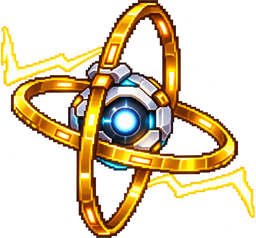
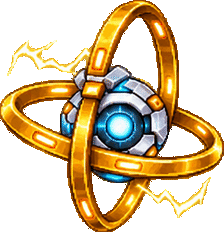
PULSE helper: the owner's animated picture (16 frames, rings spinning)
Claude-Session: https://claude.ai/code/session_014wFmWGCviaZX45qxFt5PbG

diff --git a/js/sys/beastkeeper.js b/js/sys/beastkeeper.js
@@ -193,7 +193,7 @@ const HLP_IMG = {};
 for (const k of Object.keys(HELPERS)){ const im = new Image(); im.onload = () => { HLP_IMG[k] = im; delete BOT_PIC[k]; }; im.onerror = () => {}; im.src = `assets/helpers/${k}.png?v=${typeof GAMEV !== 'undefined' && GAMEV ? GAMEV : 274}`; }
 const HLP_SHINE = document.createElement('canvas');
 /* (v274) a helper whose picture the owner sent as an animation plays it: a strip of frames, assets/helpers/<k>_anim.png */
-const HLP_ANIM = {midas:{n:9, dt:.14}}, HLP_FR = {};
+const HLP_ANIM = {midas:{n:9, dt:.14}, pulse:{n:16, dt:.1}}, HLP_FR = {};
 for (const k in HLP_ANIM){ const im = new Image(); im.onload = () => { const n = HLP_ANIM[k].n, w = Math.floor(im.width / n), out = [];
     for (let i = 0; i < n; i++){ const c = document.createElement('canvas'); c.width = w; c.height = im.height; c.getContext('2d').drawImage(im, i * w, 0, w, im.height, 0, 0, w, im.height); out.push(c); } HLP_FR[k] = out; };
   im.onerror = () => {}; im.src = `assets/helpers/${k}_anim.png?v=${typeof GAMEV !== 'undefined' && GAMEV ? GAMEV : 274}`; }

diff --git a/index.html b/index.html
@@ -289,7 +289,7 @@
 <script src="js/sys/buyqty.js?v=184"></script>
 <script src="js/sys/statup.js?v=111"></script>
 <script src="js/sys/herbfx.js?v=111"></script>
-<script src="js/sys/beastkeeper.js?v=279"></script>
+<script src="js/sys/beastkeeper.js?v=280"></script>
 <script src="js/ui/menuicons.js?v=111"></script>
 <script src="js/sys/fame.js?v=111"></script>
 <script src="js/sys/cooking.js?v=273"></script>

diff --git a/docs/UPDATES.md b/docs/UPDATES.md
@@ -68,7 +68,7 @@
   - แมงมุมถ้ำตาบอด → ต่อถ้ำตาซีด · แมงมุมหุบเขา → ต่อหัวเสือหุบเขา · แมงมุมผลึกน้ำแข็ง → แตนผลึกน้ำแข็ง · แมงมุมประจำภูมิภาค 7 แบบ → ต่อ/แตนของภูมิภาคนั้น
   - บอส: พญาแมงมุมถ้ำมืด → นางพญาต่อถ้ำมืด (ท่าไม้ตาย «พุ่งเหล็กในมรณะ») · ราชินีแมงมุมน้ำแข็ง → ราชินีผึ้งน้ำแข็ง («ฝูงผึ้งน้ำแข็ง») · เจ้าผึ้งฟยอร์ด · เจ้าต่อมณี · ขนาดบอสพอดีตัว
   - สกิลใยแมงมุมของพวกนี้เปลี่ยนเป็นโฉบลง/พ่นพิษ/ลมกรดจากปีก · เรื่องเล่า บทพูดบอส เควสต์ ดันเจี้ยน เปลี่ยนตามหมด · ไอดีมอนเหมือนเดิม เซฟ เควสต์ การ์ด ของดรอปใช้ได้ต่อ
-- **หุ่น MIDAS ใช้ภาพใหม่ของเจ้าของเกม** เป็นภาพเคลื่อนไหว 9 เฟรม (ประกายหมุนรอบตัว) · ภาพนิ่งตอนตั้งกราฟิกต่ำ
+- **หุ่น MIDAS และ PULSE ใช้ภาพเคลื่อนไหวใหม่ของเจ้าของเกม:** MIDAS 9 เฟรม (ประกายหมุนรอบตัว) · PULSE 16 เฟรม (วงแหวนทองหมุนรอบแกนพลังงาน) · ภาพนิ่งตอนตั้งกราฟิกต่ำ
 - ปุ่มร้านค้าเหรียญไม่ทับปุ่มเมนูบนมือถือแล้ว (ย้ายลงไปใต้ปุ่มเมนู ชิดขอบขวาเท่ากัน)
 
 ## ราคาใหม่ตามเจ้าของเกม · ร้านเหรียญวายรา · ยาเร่งความเร็วโจมตี · เลิกยันต์กลับบ้าน · หอคอยรอให้เดินเข้าประตู (v273, 2026-11-08)
